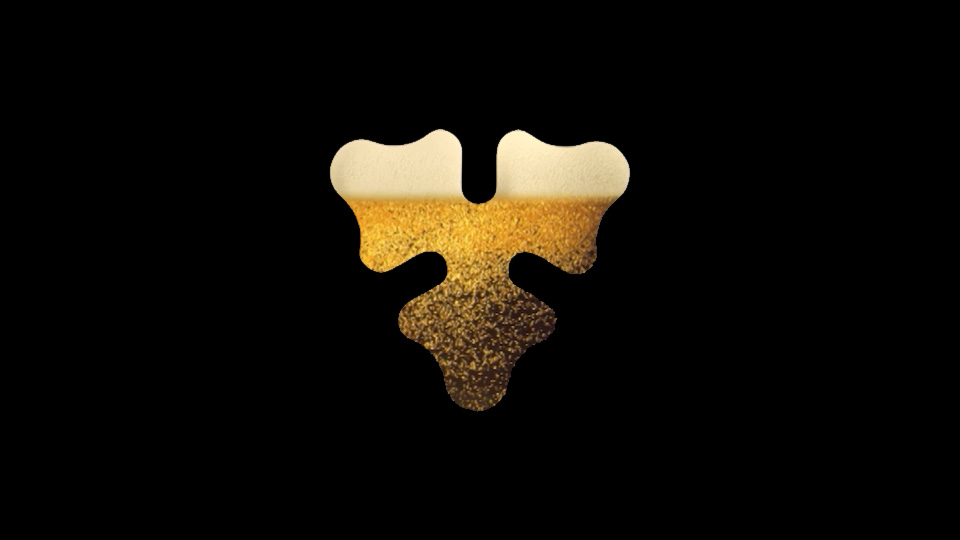
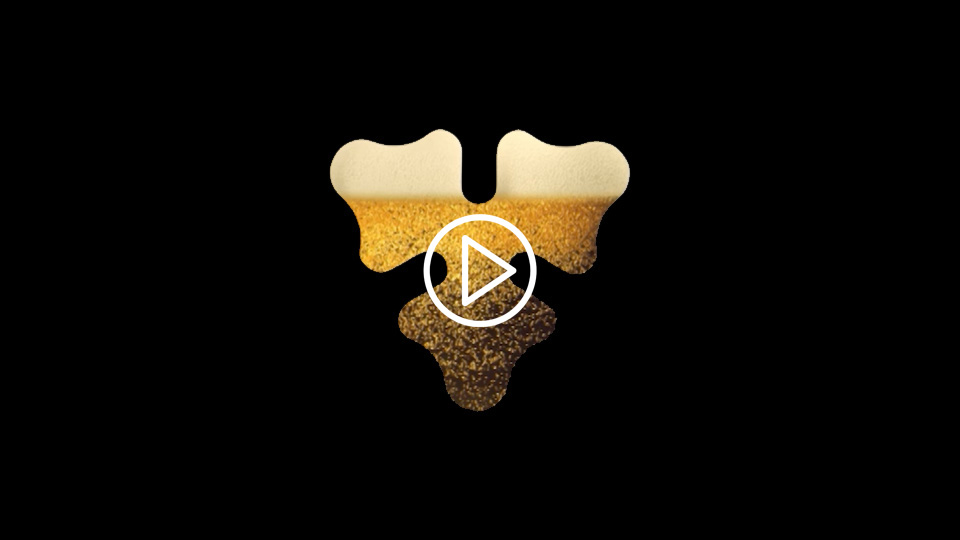
Add files via upload

Changed region(s): [[0.4375, 0.3852, 0.5625, 0.6222]]

diff --git a/index.html b/index.html
@@ -1,0 +1,181 @@
+<!doctype html>
+<html lang="en" xmlns="http://www.w3.org/1999/xhtml" xmlns:v="urn:schemas-microsoft-com:vml" xmlns:o="urn:schemas-microsoft-com:office:office">
+<head>
+  <meta charset="utf-8">
+  <meta name="viewport" content="width=device-width, initial-scale=1">
+  <meta name="x-apple-disable-message-reformatting">
+  <meta name="format-detection" content="telephone=no,address=no,email=no,date=no,url=no">
+  <title>Video Emailer</title>
+  <!--[if mso]>
+  <noscript>
+    <xml>
+      <o:OfficeDocumentSettings>
+        <o:PixelsPerInch>96</o:PixelsPerInch>
+      </o:OfficeDocumentSettings>
+    </xml>
+  </noscript>
+  <![endif]-->
+  <style>
+    html,
+    body {
+      margin: 0 !important;
+      padding: 0 !important;
+      width: 100% !important;
+      height: 100% !important;
+    }
+
+    * {
+      -ms-text-size-adjust: 100%;
+      -webkit-text-size-adjust: 100%;
+    }
+
+    table,
+    td {
+      mso-table-lspace: 0pt !important;
+      mso-table-rspace: 0pt !important;
+    }
+
+    table {
+      border-spacing: 0 !important;
+      border-collapse: collapse !important;
+      table-layout: fixed !important;
+      margin: 0 auto !important;
+    }
+
+    img {
+      -ms-interpolation-mode: bicubic;
+      border: 0;
+      outline: none;
+      text-decoration: none;
+      display: block;
+    }
+
+    a {
+      text-decoration: none;
+    }
+
+    a[x-apple-data-detectors],
+    .unstyle-auto-detected-links a,
+    .aBn {
+      color: inherit !important;
+      text-decoration: none !important;
+      border-bottom: 0 !important;
+      cursor: default !important;
+    }
+
+    @media screen and (max-width: 680px) {
+      .email-container {
+        width: 100% !important;
+      }
+
+      .mobile-padding {
+        padding-left: 24px !important;
+        padding-right: 24px !important;
+      }
+
+      .fluid {
+        width: 100% !important;
+        max-width: 100% !important;
+        height: auto !important;
+      }
+
+      .headline {
+        font-size: 30px !important;
+        line-height: 36px !important;
+      }
+    }
+
+  </style>
+</head>
+
+<body style="margin:0; padding:0; background-color:#f2f4f7;">
+  <div style="display:none; font-size:1px; line-height:1px; max-height:0; max-width:0; opacity:0; overflow:hidden; mso-hide:all;">
+    A short preview of this email goes here.&nbsp;&zwnj;&nbsp;&zwnj;&nbsp;&zwnj;&nbsp;&zwnj;&nbsp;&zwnj;
+  </div>
+
+  <center role="article" aria-roledescription="email" lang="en" style="width:100%; background-color:#f2f4f7;">
+    <!--[if mso]>
+    <table role="presentation" width="650" align="center" cellpadding="0" cellspacing="0" border="0">
+    <tr><td>
+    <![endif]-->
+
+    <table role="presentation" class="email-container" width="100%" cellpadding="0" cellspacing="0" border="0" style="width:100%; max-width:650px; margin:0 auto;">
+      <tr>
+        <td style="padding:24px 12px;">
+          <table role="presentation" width="100%" cellpadding="0" cellspacing="0" border="0" style="width:100%; background-color:#ffffff;">
+            <tr>
+              <td class="mobile-padding" style="padding:30px 44px 24px; font-family:Arial, Helvetica, sans-serif; font-size:22px; line-height:28px; font-weight:700; color:#111827;">
+                YOUR LOGO
+              </td>
+            </tr>
+
+            <tr>
+              <td class="mobile-padding" style="padding:18px 44px 14px; font-family:Arial, Helvetica, sans-serif; color:#111827;">
+                <h1 class="headline" style="margin:0; font-size:38px; line-height:46px; font-weight:700; letter-spacing:-0.5px;">
+                  Lorem ipsum dolor sit amet
+                </h1>
+              </td>
+            </tr>
+
+            <tr>
+              <td class="mobile-padding" style="padding:0 44px 26px; font-family:Arial, Helvetica, sans-serif; font-size:17px; line-height:27px; color:#4b5563;">
+                <p style="margin:0;">Consectetur adipiscing elit, sed do eiusmod tempor incididunt ut labore et dolore magna aliqua. Ut enim ad minim veniam, quis nostrud exercitation ullamco laboris.</p>
+              </td>
+            </tr>
+
+            <tr>
+              <td class="mobile-padding" style="padding:0 44px 28px;">
+                <a href="https://mahesh-01.github.io/video/BeerDayVideo.mp4" target="_blank" aria-label="Watch the video" style="display:block; background-color:#111827;">
+                  <img
+                    class="fluid"
+                    src="https://mahesh-01.github.io/video/poster.jpg"
+                    width="562"
+                    alt="Watch the video"
+                    style="display:block; width:100%; max-width:562px; height:auto; background-color:#111827; color:#ffffff; font-family:Arial, Helvetica, sans-serif; font-size:22px; line-height:316px; text-align:center;"
+                  >
+                </a>
+                <p style="margin:10px 0 0; font-family:Arial, Helvetica, sans-serif; font-size:14px; line-height:20px; text-align:center;">
+                  <a href="https://mahesh-01.github.io/video/BeerDayVideo.mp4" target="_blank" style="color:#2563eb; text-decoration:underline;">Click to watch the video</a>
+                </p>
+              </td>
+            </tr>
+
+            <tr>
+              <td class="mobile-padding" style="padding:0 44px 12px; font-family:Arial, Helvetica, sans-serif; font-size:17px; line-height:27px; color:#4b5563;">
+                <p style="margin:0 0 16px;">Duis aute irure dolor in reprehenderit in voluptate velit esse cillum dolore eu fugiat nulla pariatur. Excepteur sint occaecat cupidatat non proident.</p>
+                <p style="margin:0;">Sunt in culpa qui officia deserunt mollit anim id est laborum. Sed ut perspiciatis unde omnis iste natus error sit voluptatem.</p>
+              </td>
+            </tr>
+
+            <tr>
+              <td class="mobile-padding" style="padding:24px 44px 42px;">
+                <table role="presentation" cellpadding="0" cellspacing="0" border="0" style="margin:0 !important;">
+                  <tr>
+                    <td style="border-radius:6px; background-color:#2563eb;">
+                      <a href="https://example.com" target="_blank" style="display:inline-block; padding:14px 24px; border:1px solid #2563eb; border-radius:6px; font-family:Arial, Helvetica, sans-serif; font-size:16px; line-height:20px; font-weight:700; color:#ffffff;">
+                        Learn more
+                      </a>
+                    </td>
+                  </tr>
+                </table>
+              </td>
+            </tr>
+
+            <tr>
+              <td class="mobile-padding" style="padding:26px 44px; border-top:1px solid #e5e7eb; font-family:Arial, Helvetica, sans-serif; font-size:12px; line-height:18px; color:#6b7280; text-align:center;">
+                <p style="margin:0 0 8px;">Company Name · Street Address · City, State 000000</p>
+                <!-- <p style="margin:0;"><a href="{{unsubscribe_url}}" style="color:#6b7280; text-decoration:underline;">Unsubscribe</a></p> -->
+              </td>
+            </tr>
+          </table>
+        </td>
+      </tr>
+    </table>
+
+    <!--[if mso]>
+    </td></tr>
+    </table>
+    <![endif]-->
+  </center>
+</body>
+</html>
